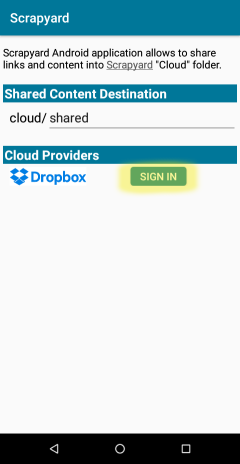
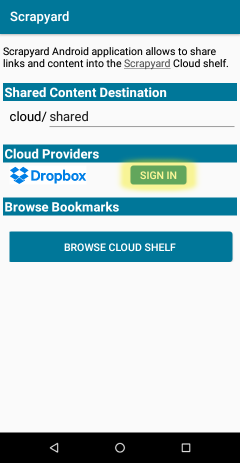
various fixes

Changed region(s): [[0.0, 0.1814, 0.9917, 0.5745], [0.0, 0.0302, 1.0, 0.1512]]

diff --git a/addon/help.html b/addon/help.html
@@ -52,7 +52,7 @@
         import/export data in <a
             href="https://orgmode.org" target="_blank">org-mode</a> or <a
             href="https://www.jsonlines.org/">JSON</a> formats. With Scrapyard native helper
-        application it is also possible to import RDF archives of the legacy Firefox ScrapBook
+        application it is possible to import RDF archives of the legacy Firefox ScrapBook
         extension.</p>
 
     <h3>Where to Find Scrapyard</h3>
@@ -107,10 +107,15 @@
         Adding or copying/pasting bookmarks into a special shelf named Cloud makes them available
         across different Firefox instances that use a cloud provider with the same credentials.
         Cloud providers are configurable at the addon settings (currently, only Dropbox is
-        supported). <a
+        supported).</p>
+
+    <p><a
         href="https://scrapyard.page.link/android" target="_blank">Scrapyard application for
         Android</a> allows to save links and content into the Cloud shelf from mobile devices.
+        Versions of Android 5 and above are supported. Currently the archived content and
+        notes are not accessible from Android, only bookmark or archive original links could be opened.
     </p>
+
 
     <p style="text-align: center">
         <img src="images/help/cloud.png">
@@ -274,8 +279,8 @@
         for more details about the available import options.</p>
 
         <p>Shelves imported in quick mode are marked with a tape reel icon. It is possible to add
-            new archives to them (added bookmarks are not included into the underlying RDF file),
-            and physically delete RDF entries along with its files. Although, when the entire shelf
+            new archives to them (simple bookmarks are not included into the underlying RDF file),
+            and physically delete RDF entries along with attached files. But when the entire shelf
             is deleted from Scrapyard, the corresponding RDF file and the archived pages are left intact.
             Some features, such as page editing and bookmark transferring/copying are not available for
             the shelves imported in quick mode.</p>
@@ -357,7 +362,7 @@
     <p>Use the "bookmark" or "archive" commands with the corresponding arguments to bookmark/archive
         a page into the specified destination. The arguments allow to specify bookmark title,
         details, path, tags, TODO state and expiration date. Folders in the bookmark path will be
-        autocompleted by iShell and created if they do not exist. The first folder in the path is
+        autocompleted by iShell and created in Scrapyard if they do not exist. The first folder in the path is
         always interpreted as a shelf name. The tilde (~) character may be used in place of the
         "default" shelf. Contents of the Firefox "Bookmarks Menu" and "Other Bookmarks" bookmark
         folders may be accessed with the "@" and "@@" shortcuts respectively.</p>

diff --git a/addon/tree.css b/addon/tree.css
@@ -269,6 +269,10 @@
 }
 
 
+.archive-node {
+    font-style: italic;
+}
+
 a.has-notes, a.has-notes:hover {
     text-decoration: underline;
 }

diff --git a/addon/sidebar.css b/addon/sidebar.css
@@ -327,10 +327,6 @@ select{
 }
 
 
-.archive-node {
-    font-style: italic;
-}
-
 #main-controls {
 	width: 100%;
 	display:flex;
